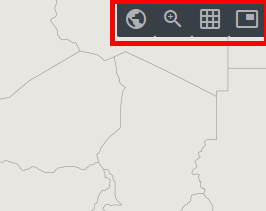
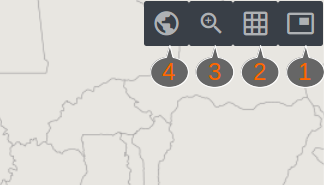
Atualização da Apresentação

diff --git a/PITCHME.md b/PITCHME.md
@@ -32,16 +32,37 @@
 
 ---
 
-#### Interface
-
-##### Ferramentas de navegação
+#### Ferramentas de navegação
 
 ![Barra de Navegação](assets/image/barranavegacao.png)
 
-- 1- Mapa de referência: Apresenta uma miniatura de um mapa geral identificando a localização da visualização atual
-- 2- Grade de coordenadas: Inclui uma grade de coordenadas para referência de navegação
-- 3- Zoom: Possibilita aproximar em uma localidade a partir da seleção de uma localização na tela
-- 4- Enquadramento inicial: retornar para o zoom e localização inicial do mapa
+- **1 - Mapa de referência:** Apresenta uma miniatura de um mapa geral identificando a localização da visualização atual
+- **2 - Grade de coordenadas:** Inclui uma grade de coordenadas para referência de navegação
+
++++
+
+#### Ferramentas de navegação
+
+![Barra de Navegação](assets/image/barranavegacao.png)
+
+- **3 - Zoom:** Possibilita aproximar em uma localidade a partir da seleção de uma localização na tela
+- **4 - Enquadramento inicial:** retornar para o zoom e localização inicial do mapa
+
+---
+
+#### Menu Lateral
+
+![Menu Lateral](assets/image/menulateral.png)
+
+- **1 -** Recolhe e abre o menu
+- **2 -** Define a Região de Estudo a partir de regionalizações político-administrativas, condições sociossanitárias e geometrias inseridas no mapa. A Região de Estudo definida servirá para filtrar as camadas de Estabelecimentos de Saúde e Indicadores do MGDI.
+
++++
+
+![Menu Lateral](assets/image/menulateral.png)
+
+- **3 -** Apresenta as camadas incluídas no mapa e o possibilita a inclusão de novas camadas a partir de um catálogo
+- **4 -** Apresenta as opções de mapas de fundo para personalização da visualização das camadas 
 
 ---
 ## Links e suporte
